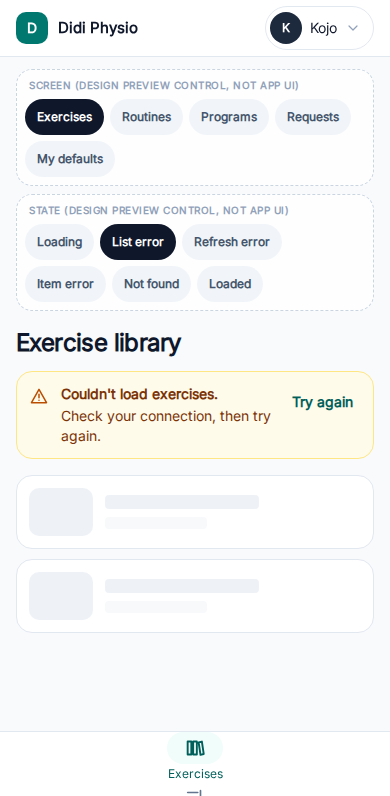
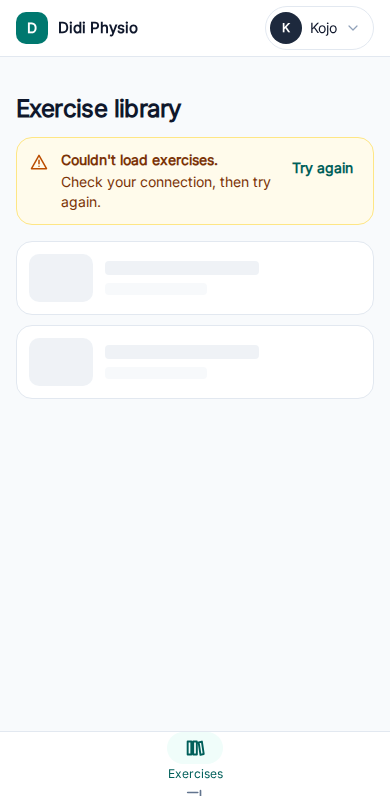
design(DIDI-1080): failed-save Designer picks from DIDI-1273
Map 19 action-specific failed-save strings (abb34765 / beb059a5,
CTO 0ca2d594) to the 7e4a9711 one-line form "Couldn't {action}
the {item}. Try again." Refresh banner is one line; recapture
mockups 01-05 and 07 without preview chrome; fix Changes
citation and {t} default placeholder.

diff --git a/design/app/shared-load-states/spec.md b/design/app/shared-load-states/spec.md
@@ -120,55 +120,56 @@ Each line is one alert. **{item}** uses the noun only (exercise, routine, progra
 
 Last two lines use fixed wording (library exercise field conflict), not `{item}`.
 
-### Failed-save mapping by action type
+### Failed-save strings (Designer pick, DIDI-1273)
 
-Per DIDI-594 lock `fed76bfb` ("change the wording so it matching the error") and Designer response to QA R1 on [DIDI-1080](https://linear.app/didi-build/issue/DIDI-1080) comment `6e041ed6`, map the four locked strings (`7e4a9711`) only when the action truly matches. Map by **action type**; developer maps any new action by type once wording exists. No new strings in this spec.
+**Designer pick** ([DIDI-1273](https://linear.app/didi-build/issue/DIDI-1273) comment `abb34765`, corrected one-liners in comment `beb059a5` Nov 21, 2026, CTO ruling `0ca2d594` on DIDI-594): same **7e4a9711** failed-save alert as above: one semibold line ending **Try again.** (words in the sentence), plus a separate **Try again** button. No secondary **Check your connection, then try again.** on these alerts (that line is for list and item **load** banners only).
 
-| Action type | Alert string |
-| -- | -- |
-| Save or edit | Couldn't save the {item}. Try again. |
-| Delete or remove | Couldn't remove the {item}. Try again. |
-| Switch to the library version | Couldn't switch to the library version. Try again. |
-| Keep your own version | Couldn't keep your version. Try again. |
-
-#### Mapped actions (locked strings apply)
-
-| Screen | Action (from feature specs) | Action type | `{item}` when used |
-| -- | -- | -- | -- |
-| Exercise library | Save as version N+1 (Edit for everyone) | Save or edit | exercise |
-| Exercise library | Edit my copy save | Save or edit | exercise |
-| Exercise library | Remove from My exercises | Delete or remove | exercise |
-| Exercise library | Use library version (field conflict) | Switch to the library version | (fixed string) |
-| Exercise library | Keep mine (field conflict) | Keep your own version | (fixed string) |
-| Routines | Edit for everyone save | Save or edit | routine |
-| Routines | Edit my copy save | Save or edit | routine |
-| Routines | Remove from My routines | Delete or remove | routine |
-| Routines | Keep mine (decline community update) | Keep your own version | (fixed string) |
-| Programs | Delete program (confirm) | Delete or remove | program |
-
-#### Open: needs Diadem (no string in this spec)
-
-| Screen | Action | Why open |
+| Screen | Action | Alert |
 | -- | -- | -- |
-| Exercise library | Regenerate media (confirm) | Not a save; conflicts with DIDI-1210 image-failure copy |
-| Exercise library | Restore this version | Locked save string does not match restore |
-| Exercise library | Merge (confirm) | Locked save string does not match merge |
-| Routines | Draft autosave | Wording not approved for autosave failure |
-| Routines | Publish now (community publish) | Publish is not the same as save in copy |
-| Routines | Discard draft | Remove string does not match discard |
-| Routines | Use version N (adopt community on saved copy) | Not switch or save as locked |
-| Routines | Restore this version | Locked save string does not match restore |
-| Programs | Builder autosave | Wording not approved (programs spec still has its own save-failure block until wired) |
-| Programs | Publish / republish | Publish is not the same as save in copy |
-| Programs | Restore from Recently deleted | Locked save string does not match restore |
-| Programs | Remove exercise row from builder | Wording not approved |
-| Programs | Save per-program expiry (Publish or share sheet) | Wording not approved |
-| Requests and drafts | Submit request | Not approved |
-| Requests and drafts | Draft review edits | Not approved |
-| Requests and drafts | Approve | Approve is not save |
-| Requests and drafts | Discard or dismiss draft | Wording not approved |
-| My defaults | Save share-link default | Success copy is already **Saved your … default**; failure string not approved |
-| My defaults | Save exercise-type default row | Same as above |
+| Exercise library | Regenerate media (confirm) | Couldn't regenerate the images. Try again. |
+| Exercise library | Restore this version | Couldn't restore this version. Try again. |
+| Exercise library | Merge (confirm) | Couldn't merge the exercises. Try again. |
+| Routines | Draft autosave | Couldn't save the draft. Try again. |
+| Routines | Publish now (community publish) | Couldn't publish the routine. Try again. |
+| Routines | Discard draft | Couldn't discard the draft. Try again. |
+| Routines | Use version N (adopt community on saved copy) | Couldn't switch to this version. Try again. |
+| Routines | Restore this version | Couldn't restore this version. Try again. |
+| Programs | Builder autosave | Couldn't save the program. Try again. |
+| Programs | Publish or republish | Couldn't publish the program. Try again. |
+| Programs | Restore from Recently deleted | Couldn't restore the program. Try again. |
+| Programs | Remove exercise row from builder | Couldn't remove the exercise. Try again. |
+| Programs | Save per-program expiry (Publish or share sheet) | Couldn't save the link expiry. Try again. |
+| Requests and drafts | Submit request | Couldn't submit the request. Try again. |
+| Requests and drafts | Draft review edits | Couldn't save your edits. Try again. |
+| Requests and drafts | Approve | Couldn't approve the draft. Try again. |
+| Requests and drafts | Discard or dismiss draft | Couldn't discard the draft. Try again. |
+| My defaults | Save share-link default | Couldn't save your default. Try again. |
+| My defaults | Save exercise-type default row | Couldn't save your default. Try again. |
+
+**Couldn't regenerate the images. Try again.** covers only a failed regenerate **request**. It does not replace [DIDI-1210](https://linear.app/didi-build/issue/DIDI-1210) G2 (**The AI couldn't make the images. The text is kept.**) or the daily-limit copy on that flow.
+
+Success copy on My defaults remains **Saved your {t} default** (`design/app/settings-link-expiry/spec.md`).
+
+### Failed-save mapping
+
+Per DIDI-594 lock `fed76bfb` ("change the wording so it matching the error"), use lock `7e4a9711` only when the action truly matches. Use the **Failed-save strings (Designer pick, DIDI-1273)** table for every other listed action.
+
+#### Mapped actions (lock `7e4a9711` one-liner format)
+
+| Screen | Action (from feature specs) | Alert (lock `7e4a9711`) |
+| -- | -- | -- |
+| Exercise library | Save as version N+1 (Edit for everyone) | Couldn't save the exercise. Try again. |
+| Exercise library | Edit my copy save | Couldn't save the exercise. Try again. |
+| Exercise library | Remove from My exercises | Couldn't remove the exercise. Try again. |
+| Exercise library | Use library version (field conflict) | Couldn't switch to the library version. Try again. |
+| Exercise library | Keep mine (field conflict) | Couldn't keep your version. Try again. |
+| Routines | Edit for everyone save | Couldn't save the routine. Try again. |
+| Routines | Edit my copy save | Couldn't save the routine. Try again. |
+| Routines | Remove from My routines | Couldn't remove the routine. Try again. |
+| Routines | Keep mine (decline community update) | Couldn't keep your version. Try again. |
+| Programs | Delete program (confirm) | Couldn't remove the program. Try again. |
+
+All other actions in the feature specs use the matching row in **Failed-save strings (Designer pick, DIDI-1273)**.
 
 ## Layout and accessibility (option C)
 
@@ -192,7 +193,7 @@ From revision `466879036132560897` (`LoadStatesCore.tsx`, variant `C`).
 | Primary text | `text-sm font-semibold text-amber-900` |
 | **Try again** | Ghost-style control on the right; min height 44 px; teal text |
 
-**Designer pick** ([DIDI-1080](https://linear.app/didi-build/issue/DIDI-1080) comment `6e041ed6`): The approved secondary line **Check your connection, then try again.** appears as a second line in the banner body under the semibold primary line (`font-normal`, same amber-900). MagicPath revision `466879036132560897` shows only the primary line in the banner; build and mockups 02 and 04 include both lines.
+**Designer pick** ([DIDI-1080](https://linear.app/didi-build/issue/DIDI-1080) comment `6e041ed6`): On **list load error** and **item load error** banners only, the approved secondary line **Check your connection, then try again.** appears as a second line in the banner body under the semibold primary line (`font-normal`, same amber-900). **Refresh failure** uses only **Couldn't refresh. You're seeing what loaded earlier.** (no secondary line). Mockups 02 and 04 include both load-error lines; mockup 03 does not.
 
 ### Not found
 
@@ -208,7 +209,7 @@ From revision `466879036132560897` (`LoadStatesCore.tsx`, variant `C`).
 | Element | Treatment |
 | -- | -- |
 | Container | `role="alert"`; amber panel matching banner colours, compact padding |
-| Message | One semibold line (includes **Try again** as words) |
+| Message | One semibold line (includes **Try again.** as words), from the `7e4a9711` table or the DIDI-1273 table |
 | **Try again** button | Bordered secondary button, same retry behaviour as banners |
 
 **Designer pick** ([DIDI-1080](https://linear.app/didi-build/issue/DIDI-1080) comment `6e041ed6`): Failed-save alert layout follows mockup `06-failed-save`; placement is directly under the screen or sheet title on whichever surface triggered the save.
@@ -251,10 +252,13 @@ Exercises screen is the canonical capture; the same patterns apply on the other 
 | Load and refresh errors | Blank or undefined error slots in app code | Option C amber banner; exact strings in this spec |
 | Retry | No spec (implicit gaps in feature specs) | Manual **Try again** only; **Trying again...** while in flight; focus kept on failure |
 | Not found vs load error | Not distinguished in shared spec | Not found has no **Try again**; type-specific helpers |
-| Failed save errors | No shared strings in design specs | Four locked alert strings; [DIDI-1094](https://linear.app/didi-build/issue/DIDI-1094) depends on them |
+| Failed save errors | No shared strings in design specs | Four `7e4a9711` one-liners plus 19 DIDI-1273 one-liners (`abb34765`, corrected `beb059a5`); [DIDI-1094](https://linear.app/didi-build/issue/DIDI-1094) depends on them |
 
 ## Changes
 
 - **Nov 21, 2026**: DIDI-1080. Option C approved; strings locked `fed76bfb` and `7e4a9711`; variant lock `2bdbb75b`. Blocks [DIDI-1082](https://linear.app/didi-build/issue/DIDI-1082) until merged. https://linear.app/didi-build/issue/DIDI-1080
-- **Nov 21, 2026**: Designer picks on DIDI-594 `a887af34`: refresh vs list load error rule, My defaults scope, failed-save action-type mapping and known-actions table (no new strings).
-- **Nov 21, 2026**: QA R1 fixes. Narrow failed-save mapping; Open rows for non-matching actions (`6e041ed6`). Recaptured mockups (390 / 1280, DIDI-1173 nav, banner secondary line, item loading). Cite `2bdbb75b` for refresh rule. https://github.com/didi-build/physio-poc/pull/144#pullrequestreview-6003519268
+- **Nov 21, 2026**: Designer picks recorded on [DIDI-1080](https://linear.app/didi-build/issue/DIDI-1080) comment `6e041ed6` (My defaults scope, banner layout, failed-save placement). Refresh vs list load rule is lock `2bdbb75b`, not a Designer pick.
+- **Nov 21, 2026**: QA R1 fixes. Narrow failed-save mapping; Open rows for non-matching actions (`6e041ed6`). Recaptured mockups (390 / 1280, DIDI-1173 nav, banner secondary line, item loading). https://github.com/didi-build/physio-poc/pull/144#pullrequestreview-6003519268
+- **Nov 21, 2026**: Follow-up after merge `2a2b3ca`. Failed-save strings for 19 actions ([DIDI-1273](https://linear.app/didi-build/issue/DIDI-1273) comment `abb34765`, CTO `0ca2d594`). Mockup R2: hide preview chrome, refresh banner single line. https://linear.app/didi-build/issue/DIDI-1080
+- **Nov 21, 2026**: [DIDI-1273](https://linear.app/didi-build/issue/DIDI-1273) comment `beb059a5`: failed-save Designer picks use **7e4a9711** one-line alerts only (no load-error secondary line). QA R1 on https://github.com/didi-build/physio-poc/pull/149
+
